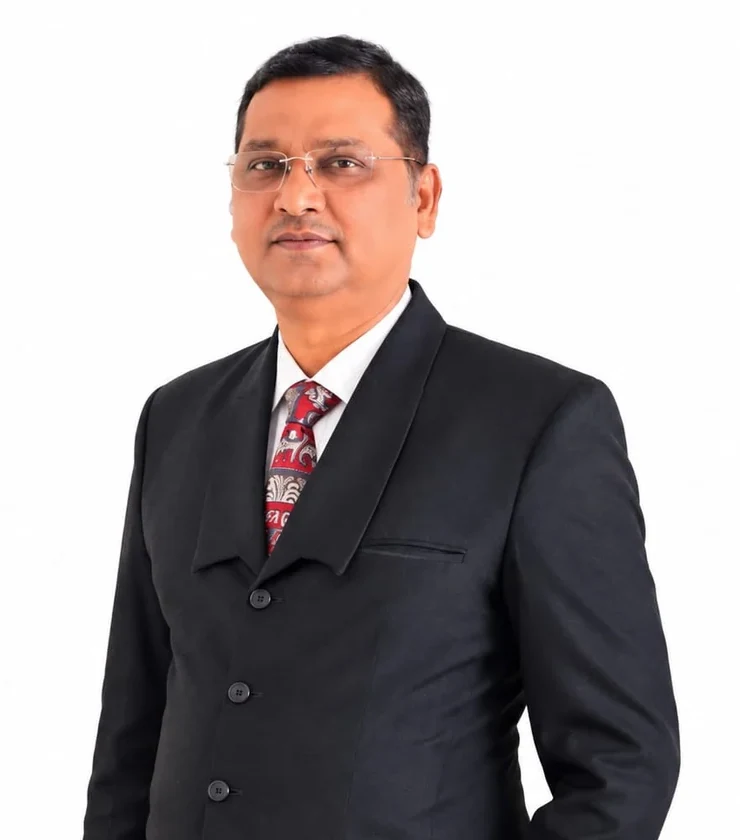
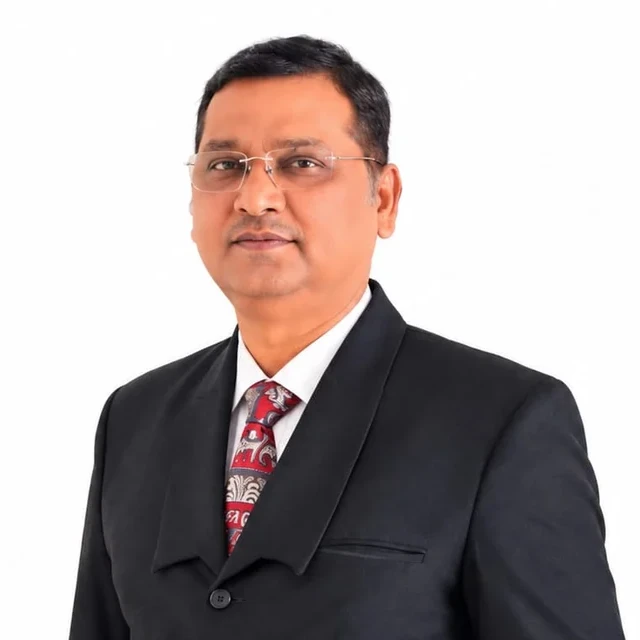
feat: crop founder photo to the chest
Claude-Session: https://claude.ai/code/session_01BNs6xDrmf8ZnWAANfD4XFW

diff --git a/src/components/sections/AboutSection.tsx b/src/components/sections/AboutSection.tsx
@@ -15,8 +15,8 @@ export function AboutSection() {
               <Image
                 src="/images/ashok-thomas.webp"
                 alt={`${site.founder}, Founder of ${site.name}`}
-                width={740}
-                height={840}
+                width={640}
+                height={640}
                 sizes="(min-width: 1024px) 384px, 90vw"
                 className="relative h-auto w-full rounded-3xl border border-navy/10 bg-white"
               />
